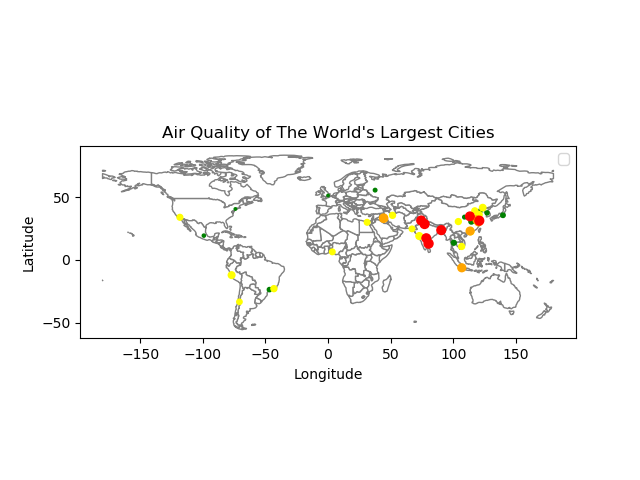
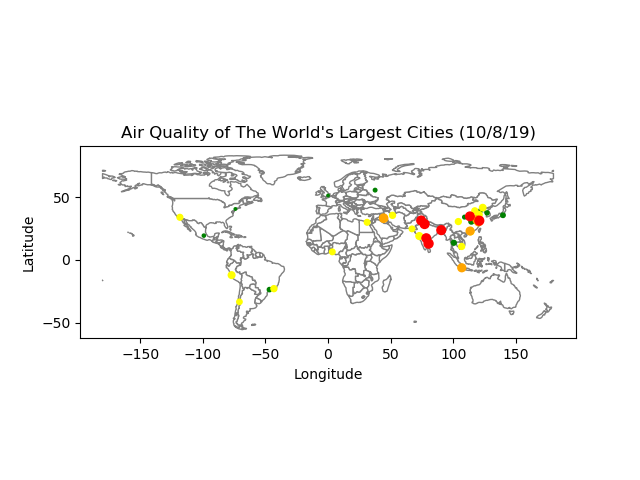
Changed the title on one of the plots.

Changed region(s): [[0.1875, 0.25, 0.8438, 0.3125]]

diff --git a/geo.py b/geo.py
@@ -41,7 +41,7 @@ terrible_gdf.plot(ax=ax, color='red', markersize=(terrible_gdf['Air Quality'])/4
 
 
 #Labels our graphs and saves the files.
-plt.title("Air Quality of The World's Largest Cities")
+plt.title("Air Quality of The World's Largest Cities (10/8/19)")
 plt.xlabel("Longitude")
 plt.ylabel("Latitude")
 #I could not get the legend to work unfortunately. Geopandas doesn't seem to really cater towards that from what I've seen.
